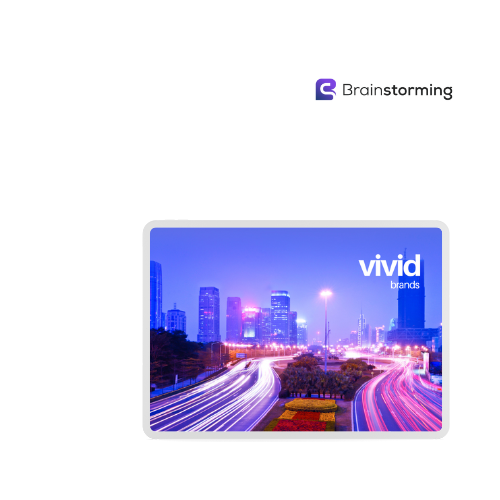
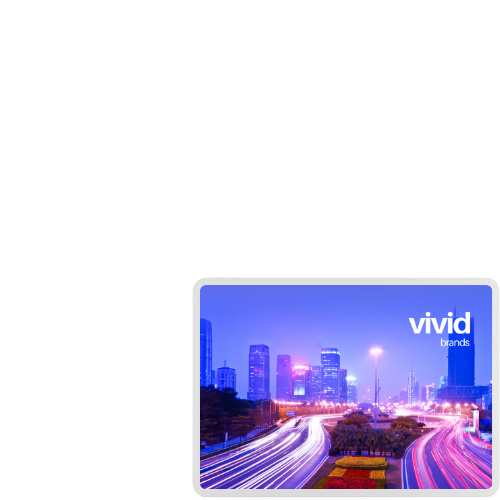
progress

diff --git a/src/components/AboutMe.jsx b/src/components/AboutMe.jsx
@@ -5,6 +5,7 @@ import Phase from './Phase.jsx';
 import { useIsVisible } from '../hooks/useIsVisible';
 import { useState } from 'react';
 import { useTranslation } from 'react-i18next';
+import Contact from './Contact.jsx';
 
 
 const skillsText = (
@@ -50,24 +51,27 @@ function AboutMe() {
   }
 
   return (
-    <div className="p-8 sm:pl-10 min-h-screen flex items-center justify-center" id="about-me">
-      <div ref={ref1} className={`transition-opacity ease-in duration-700 ${isVisible1 ? "opacity-100" : "opacity-0"}`}>
-        <div className="sm:flex">
-          <Card title={t('about-me-i')} description={skillsText} text="text-blue text-m sm:text-xl" />
-          <div>
-            <Card title={t('about-me-ii')} description={aboutMeText} text="text-black text-m sm:text-xl" />
-            <div className="flex pr-7">
-              <Phase image="/ux-dev-portfolio/RESEARCH.png" title="01." onHover={() => handleHover(t('about-me-iv'), t('about-me-v'))} onLeave={handleMouseLeave}/>
-              <Phase image="/ux-dev-portfolio/DESIGN.png" title="02." onHover={() => handleHover(t('about-me-vi'), t('about-me-vii'))} onLeave={handleMouseLeave}/>
-              <Phase image="/ux-dev-portfolio/BUILD.png"title="03."  onHover={() => handleHover(t('about-me-viii'), t('about-me-ix'))} onLeave={handleMouseLeave}/>
-            </div>
-            <div className={`transition-opacity duration-500 ease-in  ${isHovering ? 'opacity-100' : 'opacity-0'} bg-orange rounded-md mr-8 ms-2 mt-4 sm:max-w-xl p-2`}>
-              <p className="px-3 py-1 font-bold text-m sm:text-xl font-main font-bold text-gray">{hoveredPhase.title}</p>
-              <p className="px-3 pb-2 text-m font-main text-gray">{hoveredPhase.description}</p>
+    <div>
+      <div className="p-8 sm:pl-10 min-h-screen flex items-center justify-center" id="about-me">
+        <div ref={ref1} className={`transition-opacity ease-in duration-700 ${isVisible1 ? "opacity-100" : "opacity-0"}`}>
+          <div className="sm:flex">
+            <Card title={t('about-me-i')} description={skillsText} text="text-blue text-m sm:text-xl" />
+            <div>
+              <Card title={t('about-me-ii')} description={aboutMeText} text="text-black text-m sm:text-xl" />
+              <div className="flex pr-7">
+                <Phase image="/ux-dev-portfolio/RESEARCH.png" title="01." onHover={() => handleHover(t('about-me-iv'), t('about-me-v'))} onLeave={handleMouseLeave}/>
+                <Phase image="/ux-dev-portfolio/DESIGN.png" title="02." onHover={() => handleHover(t('about-me-vi'), t('about-me-vii'))} onLeave={handleMouseLeave}/>
+                <Phase image="/ux-dev-portfolio/BUILD.png"title="03."  onHover={() => handleHover(t('about-me-viii'), t('about-me-ix'))} onLeave={handleMouseLeave}/>
+              </div>
+              <div className={`transition-opacity duration-500 ease-in  ${isHovering ? 'opacity-100' : 'opacity-0'} bg-orange rounded-md mr-8 ms-2 mt-4 sm:max-w-xl p-2`}>
+                <p className="px-3 py-1 font-bold text-m sm:text-xl font-main font-bold text-gray">{hoveredPhase.title}</p>
+                <p className="px-3 pb-2 text-m font-main text-gray">{hoveredPhase.description}</p>
+              </div>
             </div>
           </div>
         </div>
       </div>
+      <Contact />
     </div>
   )
 }

diff --git a/src/components/ProjectIntro.jsx b/src/components/ProjectIntro.jsx
@@ -7,16 +7,26 @@ function ProjectIntro(props) {
 
   return (
     <div ref={ref1}
-      className= {`overflow-hidden flex flex-col sm:flex-row relative transition-translate ease-in duration-500 ${isVisible1 ? "translate-x-0" : "-translate-x-6"} rounded-md bg-white h-80 shadow-md sm:col-span-3 mt-10`}
+      className= {`overflow-hidden flex grid grid-cols-2 gap-4 relative transition-translate ease-in duration-500 ${isVisible1 ? "translate-x-0" : "-translate-x-6"} rounded-md bg-white h-80 shadow-md sm:col-span-3 mt-10 relative`}
     >
-      <div>
-        <p className="font-main text-blue text-m font-bold sm:text-xl font-bold pt-6 pl-3 pr-3 bt-3">{props.name}</p>
-        <p className="font-main text-black text-m sm:text-xl pl-3">{props.description}</p>
+      <div className="col-span-1">
+        <p className="font-main text-blue text-m font-bold sm:text-xl font-bold pt-6 pl-4 bt-3">{props.name}</p>
+        <p className="font-main text-black text-m sm:text-xl pl-4 pt-4">{props.description}</p>
       </div>
-      <div className="bg-cover w-full h-full"
+      <div className="relative w-full h-full col-span-1">
+        <div className="absolute bottom-4 right-4 bg-cover w-80 h-80"
         style={{
           backgroundImage: `url(${props.img})`,
-          backgroundPosition: 'center sm:right center',
+          backgroundPosition: 'left-bottom',
+          backgroundSize: 'contain',
+          backgroundRepeat: 'no-repeat',
+        }}
+        >
+        </div>
+      </div>
+      <div className="absolute -top-8 right-4 w-20 h-20"
+          style={{
+          backgroundImage: `url(${props.logo})`,
           backgroundSize: 'contain',
           backgroundRepeat: 'no-repeat',
         }}

diff --git a/src/components/ProjectContainer.jsx b/src/components/ProjectContainer.jsx
@@ -9,36 +9,41 @@ function ProjectContainer() {
   };
 
   return (
-    <div className="projects-container pl-10 pr-10 sm:pl-[100px] sm:pr-[100px]  pt-10 sm:pt-40 sm:grid sm:grid-cols-6 gap-10">
+    <div className="projects-container pl-10 pr-10 sm:pl-[100px] sm:pr-[100px]  pt-10 sm:pt-40 lg:grid lg:grid-cols-6 gap-10">
       <ProjectIntro
         name="Espacio ITS"
         description="Lorem ipsum lorem ipsum lorem ipsum lorem ipsum"
         img="/ux-dev-portfolio/ITS-I.png"
         imgName="Espacio ITS"
+        logo="/ux-dev-portfolio/ITS-LOGO.png"
       />
       <ProjectIntro
         name={t('send-ey')}
         description="Lorem ipsum lorem ipsum lorem ipsum lorem ipsum"
         img="/ux-dev-portfolio/SENDEY-I.png"
         imgName={t('send-ey')}
+        logo="/ux-dev-portfolio/SENDEY-LOGO.png"
       />
       <ProjectIntro
         name="Best Vet"
         description="Lorem ipsum lorem ipsum lorem ipsum lorem ipsum"
         img="/ux-dev-portfolio/BESTVET-I.png"
         imgName="Best Vet"
+        logo="/ux-dev-portfolio/BESTVET-LOGO.png"
       />
       <ProjectIntro
         name="Vivid Brands"
         description="Lorem ipsum lorem ipsum lorem ipsum lorem ipsum"
         img="/ux-dev-portfolio/BS-I.png"
         imgName="Vivid Brands"
+        logo="/ux-dev-portfolio/BS-LOGO.png"
       />
       <ProjectIntro
         name="Best Petsitter"
         description="Lorem ipsum lorem ipsum lorem ipsum lorem ipsum"
         img="/ux-dev-portfolio/BESTPETSITTER-I.png"
         imgName="Best Petsitter"
+        logo="/ux-dev-portfolio/BESTPETSITTER-LOGO.png"
       />
     </div>
   )
